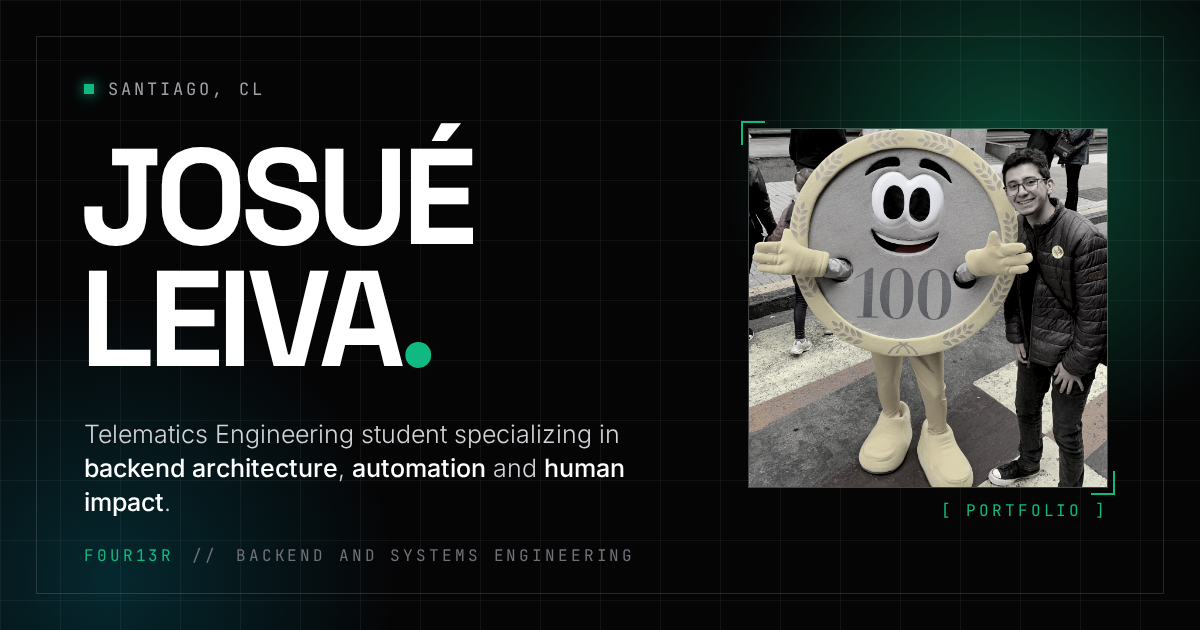
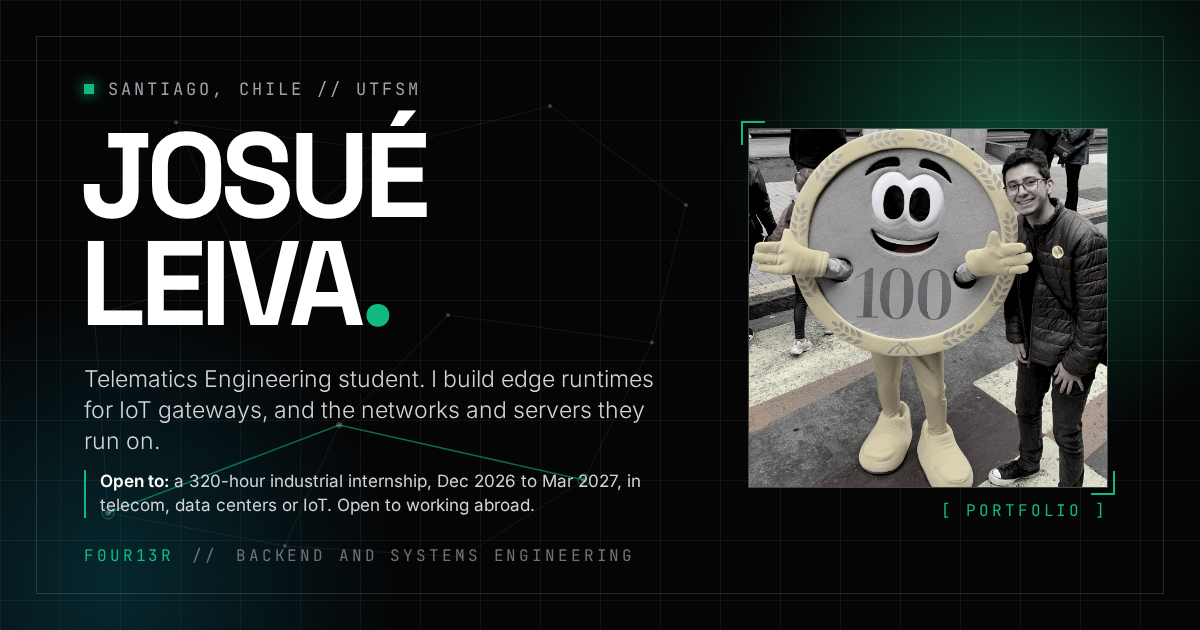
feat(ui): network-mesh hero animation, refreshed share card
- Replace the elliptic-curve animation with a calm node mesh and drifting
  packets; the rpi node reflects the heartbeat and ntfy messages travel
  ntfy -> srv -> rpi. Pauses on hover, off-screen and under reduced motion.
- Animated "Open to" callout, larger hero caption.
- Share card regenerated with the current hero copy and mesh.
- Spanish aria-label updated.

Changed region(s): [[0.0617, 0.181, 0.555, 0.8143], [0.2775, 0.1206, 0.37, 0.1508], [0.2158, 0.1206, 0.2467, 0.1508]]

diff --git a/djangoPortfolio/static/portfolio/js/hero-network.js b/djangoPortfolio/static/portfolio/js/hero-network.js
@@ -1,0 +1,121 @@
+/* Hero signature: a quiet mesh of nodes with packets drifting along the links.
+   Two nodes are real: "rpi" (lit while the Raspberry Pi heartbeat is recent) and "ntfy"
+   (fires a packet chain ntfy -> srv -> rpi carrying the latest notification). */
+(function () {
+    'use strict';
+    var canvas = document.getElementById('net-canvas');
+    var caption = document.getElementById('net-caption');
+    if (!canvas || !canvas.getContext) return;
+    var ctx = canvas.getContext('2d');
+    var reduced = window.matchMedia('(prefers-reduced-motion: reduce)').matches;
+    var rpiStatus = canvas.dataset.rpiStatus || '', ntfyMsg = canvas.dataset.ntfy || '';
+    var rpiOnline = !!canvas.dataset.rpiName;
+    var MONO = '10px "JetBrains Mono", monospace';
+
+    // Normalised layout; 0 = ntfy, 1 = srv, 2 = rpi, the rest are anonymous mesh nodes.
+    var N = [[.1, .86], [.44, .7], [.8, .8], [.08, .5], [.3, .42], [.6, .5], [.9, .55], [.2, .15],
+             [.5, .2], [.75, .12], [.95, .3], [.36, .92], [.62, .94]].map(function (n) { return { x: n[0], y: n[1], glow: 0 }; });
+    var E = [[0, 1], [1, 2]];
+    N.forEach(function (n, i) {
+        N.map(function (m, j) { return { j: j, d: Math.hypot(n.x - m.x, n.y - m.y) }; })
+            .sort(function (a, b) { return a.d - b.d; }).slice(1, 3).forEach(function (m) {
+                if (!E.some(function (e) { return (e[0] === i && e[1] === m.j) || (e[0] === m.j && e[1] === i); })) E.push([i, m.j]);
+            });
+    });
+
+    var pulses = [], last = 0, nextPulse = 0, nextChain = 3000, chainText = 0, nextCaption = 0, raf = 0, paused = false, visible = true;
+
+    function short(s, n) { return s.length > n ? s.slice(0, n) + '…' : s; }
+    function palette() {
+        var light = document.documentElement.getAttribute('data-theme') === 'lofi';
+        return light
+            ? { node: 'rgba(15,23,42,0.22)', link: 'rgba(15,23,42,0.07)', rgb: '4,120,87', head: '#047857', text: 'rgba(15,23,42,0.55)' }
+            : { node: 'rgba(255,255,255,0.2)', link: 'rgba(255,255,255,0.05)', rgb: '16,185,129', head: '#34d399', text: 'rgba(255,255,255,0.45)' };
+    }
+    function size() {
+        var r = canvas.getBoundingClientRect(), dpr = Math.min(window.devicePixelRatio || 1, 2);
+        canvas.width = Math.round(r.width * dpr); canvas.height = Math.round(r.height * dpr);
+        ctx.setTransform(dpr, 0, 0, dpr, 0, 0);
+    }
+    function xy(n, r) { var pad = 28; return [pad + n.x * (r.width - 2 * pad), pad + n.y * (r.height - 2 * pad)]; }
+    function ease(u) { return u * u * (3 - 2 * u); }
+    function send(a, b, dur, delay, strong) { pulses.push({ a: a, b: b, t0: last + (delay || 0), dur: dur, strong: !!strong }); }
+
+    function draw(now) {
+        var r = canvas.getBoundingClientRect(), c = palette(), i, p, A, B, u, q;
+        ctx.clearRect(0, 0, r.width, r.height);
+        ctx.lineWidth = 1; ctx.strokeStyle = c.link;
+        ctx.beginPath();
+        E.forEach(function (e) { A = xy(N[e[0]], r); B = xy(N[e[1]], r); ctx.moveTo(A[0], A[1]); ctx.lineTo(B[0], B[1]); });
+        ctx.stroke();
+        N.forEach(function (n, k) {
+            q = xy(n, r);
+            var real = k < 3, on = k === 2 ? rpiOnline : k === 0 ? !!ntfyMsg : true;
+            ctx.fillStyle = c.node;
+            ctx.beginPath(); ctx.arc(q[0], q[1], real ? 3 : 2, 0, 6.2832); ctx.fill();
+            if (n.glow > 0.02 || (real && on)) {
+                ctx.strokeStyle = 'rgba(' + c.rgb + ',' + Math.min(0.7, (real && on ? 0.25 : 0) + n.glow * 0.5) + ')';
+                ctx.beginPath(); ctx.arc(q[0], q[1], 5 + n.glow * 4, 0, 6.2832); ctx.stroke();
+            }
+            if (real) {
+                ctx.fillStyle = c.text; ctx.font = MONO;
+                ctx.fillText(k === 0 ? 'ntfy' : k === 1 ? 'srv' : on ? 'rpi' : 'rpi · offline', q[0] + 9, q[1] + 3);
+            }
+        });
+        for (i = 0; i < pulses.length; i++) {
+            p = pulses[i]; u = (now - p.t0) / p.dur;
+            if (u < 0) continue;
+            A = xy(N[p.a], r); B = xy(N[p.b], r);
+            var h = ease(Math.min(u, 1)), tail = Math.max(0, h - 0.18), fade = u > 0.85 ? Math.max(0, (1 - u) / 0.15) : 1;
+            q = [A[0] + (B[0] - A[0]) * h, A[1] + (B[1] - A[1]) * h];
+            ctx.strokeStyle = 'rgba(' + c.rgb + ',' + (0.5 * fade) + ')'; ctx.lineWidth = 1.5;
+            ctx.beginPath(); ctx.moveTo(A[0] + (B[0] - A[0]) * tail, A[1] + (B[1] - A[1]) * tail); ctx.lineTo(q[0], q[1]); ctx.stroke();
+            ctx.fillStyle = p.strong ? c.head : 'rgba(' + c.rgb + ',' + (0.85 * fade) + ')';
+            ctx.beginPath(); ctx.arc(q[0], q[1], p.strong ? 2.5 : 2, 0, 6.2832); ctx.fill();
+        }
+        ctx.lineWidth = 1;
+        if (chainText > now) {
+            q = xy(N[0], r); ctx.fillStyle = c.head; ctx.globalAlpha = Math.min(1, (chainText - now) / 1200);
+            ctx.font = MONO; ctx.fillText('“' + short(ntfyMsg, 34) + '”', q[0] + 9, q[1] - 10);
+            ctx.globalAlpha = 1;
+        }
+    }
+    function updateCaption() {
+        if (!caption) return;
+        caption.textContent = 'mesh · ' + N.length + ' nodes · ' + E.length + ' links · ' + pulses.length + ' in flight · ' +
+            (rpiOnline ? 'rpi ' + short(rpiStatus, 24) : 'rpi offline') + (ntfyMsg ? ' · ntfy “' + short(ntfyMsg, 24) + '”' : '');
+    }
+    function frame(now) {
+        raf = 0;
+        if (paused || !visible || document.hidden) return;
+        var dt = last ? Math.min(now - last, 100) : 16; last = now;
+        if (now > nextPulse) {
+            var e = E[Math.floor(Math.random() * E.length)], flip = Math.random() < 0.5;
+            if (pulses.length < 6) send(flip ? e[1] : e[0], flip ? e[0] : e[1], 2600 + Math.random() * 1400);
+            nextPulse = now + 900 + Math.random() * 900;
+        }
+        if (ntfyMsg && now > nextChain) { // ntfy -> srv -> rpi
+            send(0, 1, 1800, 0, true); send(1, 2, 1800, 1800, true); chainText = now + 5200; nextChain = now + 16000;
+        }
+        pulses = pulses.filter(function (p) {
+            if (now - p.t0 >= p.dur) { N[p.b].glow = 1; return false; }
+            return true;
+        });
+        N.forEach(function (n) { n.glow *= Math.pow(0.5, dt / 500); });
+        draw(now);
+        if (now > nextCaption) { updateCaption(); nextCaption = now + 600; }
+        raf = requestAnimationFrame(frame);
+    }
+    function resume() { if (!raf && !paused && visible && !reduced) { last = 0; raf = requestAnimationFrame(frame); } }
+
+    size(); updateCaption(); draw(0);
+    resume();
+
+    new ResizeObserver(function () { size(); draw(last); }).observe(canvas);
+    new IntersectionObserver(function (e) { visible = e[0].isIntersecting; resume(); }).observe(canvas);
+    document.addEventListener('visibilitychange', resume);
+    new MutationObserver(function () { draw(last); }).observe(document.documentElement, { attributes: true, attributeFilter: ['data-theme'] });
+    // Hold still while the pointer is over the hero text, so it never competes with reading.
+    canvas.parentNode.addEventListener('mouseenter', function () { paused = true; });
+    canvas.parentNode.addEventListener('mouseleave', function () { paused = false; resume(); });
+})();

diff --git a/djangoPortfolio/portfolio/templates/portfolio/index.html b/djangoPortfolio/portfolio/templates/portfolio/index.html
@@ -11,7 +11,7 @@
     <section id="about" class="c2-chapter-section border-b border-white/[0.08] bg-[#050506]" data-chapter="01" data-chapter-title="ABOUT">
         <div class="grid grid-cols-1 lg:grid-cols-12 divide-y lg:divide-y-0 lg:divide-x divide-white/[0.08]">
             <div class="lg:col-span-7 relative overflow-hidden bg-[#050506]">
-              <canvas id="ecc-canvas" class="absolute inset-0 w-full h-full pointer-events-none" role="img" aria-label="{% translate 'Animation: elliptic-curve scalar multiplication d·P computed by double-and-add over a finite field' %}"></canvas>
+              <canvas id="net-canvas"{% if node_heartbeat %} data-rpi-name="{{ node_heartbeat.node_name }}" data-rpi-status="{{ node_heartbeat.status|truncatechars:40 }}"{% endif %}{% if ntfy_message %} data-ntfy="{{ ntfy_message.message }}"{% endif %} class="absolute inset-0 w-full h-full pointer-events-none" role="img" aria-label="{% translate 'Animation: a network of nodes with data packets travelling between them, including live status from a Raspberry Pi node and ntfy notifications' %}"></canvas>
               <div class="relative z-10 p-5 sm:p-8 md:p-12 lg:p-14 flex flex-col gap-6 sm:gap-8">
                 <p class="font-mono text-[11px] text-zinc-400 uppercase tracking-wider flex items-center gap-2">
                     <span class="w-1.5 h-1.5 bg-emerald-500"></span>
@@ -24,7 +24,7 @@
                     {% translate "Telematics Engineering student. I build edge runtimes for IoT gateways, and the networks and servers they run on." %}
                 </p>
 
-                <p class="max-w-2xl border-l-2 border-emerald-500 pl-4 text-sm sm:text-base text-zinc-300 leading-relaxed">
+                <p class="open-to relative max-w-2xl bg-emerald-500/[0.06] py-3 pr-4 pl-5 text-sm sm:text-base text-zinc-300 leading-relaxed">
                     <strong class="text-white font-semibold">{% translate "Open to:" %}</strong>
                     {% translate "a 320-hour industrial internship, December 2026 to March 2027, in telecom, data centers or IoT. Open to working abroad." %}
                 </p>
@@ -41,7 +41,7 @@
                     <a href="https://github.com/josue-fourier" target="_blank" rel="noopener noreferrer" data-umami-event="social-click" data-umami-event-network="github" data-umami-event-location="hero" class="btn-sweep px-4 sm:px-5 py-2.5 sm:py-3 font-mono text-[11px] sm:text-xs uppercase tracking-wider flex items-center gap-2 transition-all duration-300 font-semibold border border-white/20 bg-white/[0.06] text-zinc-100 hover:text-black">GitHub ↗</a>
                     <a href="https://linkedin.com/in/josuenicolas" target="_blank" rel="noopener noreferrer" data-umami-event="social-click" data-umami-event-network="linkedin" data-umami-event-location="hero" class="btn-sweep px-4 sm:px-5 py-2.5 sm:py-3 font-mono text-[11px] sm:text-xs uppercase tracking-wider flex items-center gap-2 transition-all duration-300 font-semibold border border-white/20 bg-white/[0.06] text-zinc-100 hover:text-black">LinkedIn ↗</a>
                 </div>
-                <p id="ecc-caption" class="font-mono text-[10px] text-zinc-500 tracking-wide pt-4 sm:pt-8 lg:pt-12" aria-hidden="true"></p>
+                <p id="net-caption" class="font-mono text-[11px] text-zinc-400 tracking-wide pt-4 sm:pt-8 lg:pt-12" aria-hidden="true"></p>
               </div>
             </div>
 
@@ -282,7 +282,7 @@
 {% endblock %}
 
 {% block extra_js %}
-<script defer src="{% static 'portfolio/js/ecc-signature.js' %}"></script>
+<script defer src="{% static 'portfolio/js/hero-network.js' %}"></script>
 <script>
     // --- Interactive Engineering Logs Console (SPA) ---
     function initLoggingConsole() {

diff --git a/djangoPortfolio/static/portfolio/css/custom.css b/djangoPortfolio/static/portfolio/css/custom.css
@@ -1361,3 +1361,13 @@ main#log-content-area.markdown-body {
 /* WCAG AA contrast for small muted text on the near-black background */
 [data-theme="dracula"] .text-zinc-500 { color: #8b8b94; }
 [data-theme="dracula"] .text-zinc-600 { color: #7c7c85; }
+
+/* "Open to" callout: a slow emerald-to-cyan light travels down the left rule. */
+.open-to::before {
+    content: ""; position: absolute; left: 0; top: 0; bottom: 0; width: 2px;
+    background: linear-gradient(180deg, #10b981, #22d3ee, #10b981, #22d3ee);
+    background-size: 100% 300%;
+    animation: open-to-flow 6s linear infinite;
+}
+@keyframes open-to-flow { to { background-position: 0 300%; } }
+@media (prefers-reduced-motion: reduce) { .open-to::before { animation: none; } }

diff --git a/djangoPortfolio/static/portfolio/css/awwwards.css b/djangoPortfolio/static/portfolio/css/awwwards.css
@@ -17,12 +17,6 @@ main:focus { outline: none; }
 /* ---- Selection ---- */
 ::selection { background: #10B981; color: #050506; }
 
-/* ---- Hero signature: elliptic-curve caption ---- */
-#ecc-caption .ecc-bit-on { color: #34d399; text-decoration: underline; text-underline-offset: 3px; }
-#ecc-caption .ecc-bit-done { color: #a1a1aa; }
-[data-theme="lofi"] #ecc-caption .ecc-bit-on { color: #047857; }
-[data-theme="lofi"] #ecc-caption .ecc-bit-done { color: #334155; }
-
 /* ---- Cross-document transitions: project title/image morph into the case study ---- */
 ::view-transition-group(*) { animation-duration: .45s; animation-timing-function: cubic-bezier(.22, 1, .36, 1); }
 

diff --git a/scripts/generate_og_card.py b/scripts/generate_og_card.py
@@ -40,10 +40,12 @@ body{width:1200px;height:630px;background:#050506;color:#fff;font-family:'Space 
 .mono{font-family:'JetBrains Mono';letter-spacing:.18em;text-transform:uppercase}
 .tag{position:absolute;left:84px;top:78px;font-size:17px;color:#a1a1aa;display:flex;gap:14px;align-items:center}
 .dot{width:10px;height:10px;background:#10B981;box-shadow:0 0 14px #10B981}
-h1{position:absolute;left:80px;top:136px;font-size:136px;line-height:.9;letter-spacing:-.045em;text-transform:uppercase;font-weight:700}
+h1{position:absolute;left:80px;top:122px;font-size:120px;line-height:.9;letter-spacing:-.045em;text-transform:uppercase;font-weight:700}
 h1 span{color:#10B981}
-.sub{position:absolute;left:84px;top:418px;width:620px;font-size:25px;font-weight:300;font-family:Inter;color:#d4d4d8;line-height:1.35}
-.sub b{color:#fff;font-weight:500}
+.sub{position:absolute;left:84px;top:364px;width:600px;font-size:23px;font-weight:300;font-family:Inter;color:#d4d4d8;line-height:1.35}
+.open{position:absolute;left:84px;top:470px;width:600px;border-left:2px solid #10B981;padding-left:14px;font-size:17px;font-family:Inter;color:#d4d4d8;line-height:1.4}
+.open b{color:#fff;font-weight:600}
+svg.ecc{position:absolute;left:0;top:0;width:760px;height:630px}
 .foot{position:absolute;left:84px;bottom:64px;font-size:16px;color:#71717a;display:flex;gap:18px}
 .foot em{font-style:normal;color:#10B981}
 .ph{position:absolute;right:92px;top:128px;width:360px;height:360px;border:1px solid rgba(255,255,255,.25)}
@@ -54,12 +56,31 @@ h1 span{color:#10B981}
 </style></head><body><div class="grid"></div><div class="glow"></div><div class="glow2"></div><div class="frame"></div>
 <div class="tag mono"><span class="dot"></span>__LOCATION__</div>
 <h1>__NAME__<span>.</span></h1>
+__ECC__
 <div class="sub">__SUBTITLE__</div>
+<div class="open">__OPEN__</div>
 <div class="foot mono"><em>__HANDLE__</em><span>//</span><span>__TAGLINE__</span></div>
 <div class="ph"><img src="__PHOTO__"></div>
 <div class="badge mono">__BADGE__</div>
 </body></html>
 """
+
+
+def mesh_svg():
+    """Static version of the home hero mesh (same layout as hero-network.js): nodes, links, one packet chain."""
+    N = [(.1, .86), (.44, .7), (.8, .8), (.08, .5), (.3, .42), (.6, .5), (.9, .55), (.2, .15),
+         (.5, .2), (.75, .12), (.95, .3), (.36, .92), (.62, .94)]
+    E = {(0, 1), (1, 2)}
+    for i, n in enumerate(N):
+        for j in sorted(range(len(N)), key=lambda j: (n[0] - N[j][0]) ** 2 + (n[1] - N[j][1]) ** 2)[1:3]:
+            E.add((min(i, j), max(i, j)))
+    xy = lambda n: (40 + n[0] * 680, 40 + n[1] * 550)
+    line = lambda a, b, col, w: '<line x1="%.1f" y1="%.1f" x2="%.1f" y2="%.1f" stroke="%s" stroke-width="%s"/>' % (*xy(N[a]), *xy(N[b]), col, w)
+    links = "".join(line(a, b, "rgba(255,255,255,.07)", 1) for a, b in sorted(E))
+    chain = line(0, 1, "rgba(16,185,129,.5)", 1.5) + line(1, 2, "rgba(16,185,129,.5)", 1.5)
+    dots = "".join('<circle cx="%.1f" cy="%.1f" r="%d" fill="rgba(255,255,255,.22)"/>' % (*xy(n), 3 if k < 3 else 2) for k, n in enumerate(N))
+    rings = "".join('<circle cx="%.1f" cy="%.1f" r="6" fill="none" stroke="rgba(16,185,129,.5)"/>' % xy(N[k]) for k in (0, 2))
+    return '<svg class="ecc" viewBox="0 0 760 630">%s%s%s%s</svg>' % (links, chain, dots, rings)
 
 
 def find_chrome():
@@ -80,12 +101,13 @@ def main():
     ap.add_argument("--focus", default="center")
     ap.add_argument("--grayscale", type=float, default=0.85)
     ap.add_argument("--name", default="Josué<br>Leiva")
-    ap.add_argument("--location", default="Santiago, CL")
+    ap.add_argument("--open", default="<b>Open to:</b> a 320-hour industrial internship, Dec 2026 to Mar 2027, in telecom, data centers or IoT. Open to working abroad.")
+    ap.add_argument("--location", default="Santiago, Chile // UTFSM")
     ap.add_argument("--handle", default="F0UR13R")
     ap.add_argument("--tagline", default="Backend and systems engineering")
     ap.add_argument("--badge", default="[ Portfolio ]")
     ap.add_argument("--subtitle",
-                    default="Telematics Engineering student specializing in <b>backend architecture</b>, <b>automation</b> and <b>human impact</b>.",
+                    default="Telematics Engineering student. I build edge runtimes for IoT gateways, and the networks and servers they run on.",
                     help="HTML allowed (use <b> for emphasis)")
     ap.add_argument("--keep-html", action="store_true")
     a = ap.parse_args()
@@ -101,6 +123,8 @@ def main():
             .replace("__LOCATION__", html.escape(a.location))
             .replace("__NAME__", a.name)
             .replace("__SUBTITLE__", a.subtitle)
+            .replace("__OPEN__", a.open)
+            .replace("__ECC__", mesh_svg())
             .replace("__HANDLE__", html.escape(a.handle))
             .replace("__TAGLINE__", html.escape(a.tagline))
             .replace("__PHOTO__", photo.as_uri())
